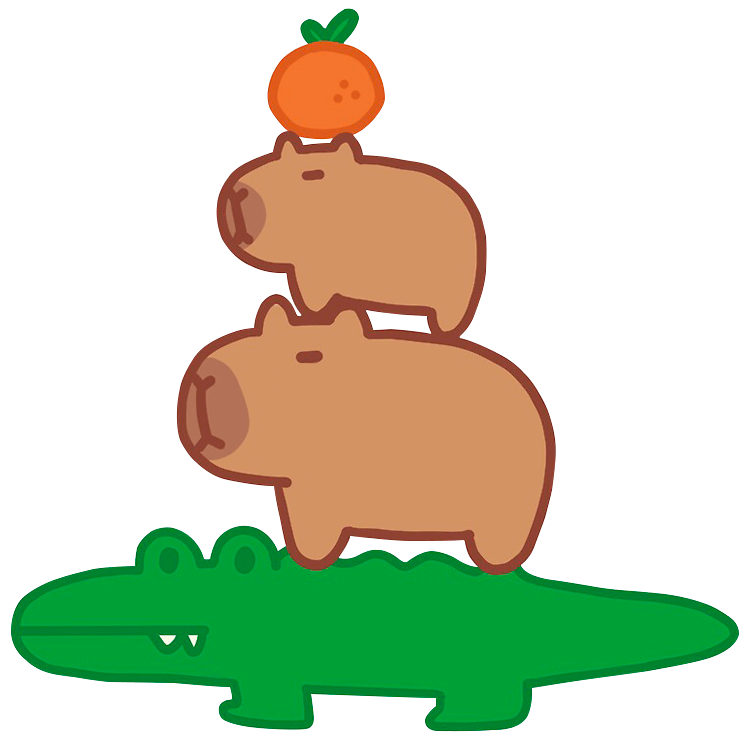
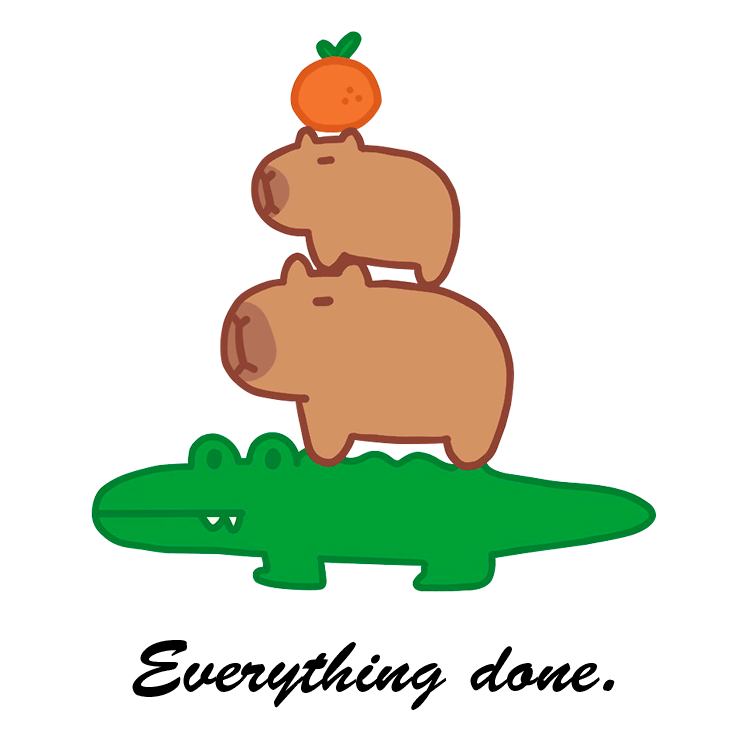
Finished todos sections. Implemented a placeholder image that appears if the todos container is empty.

diff --git a/src/index.html b/src/index.html
@@ -32,61 +32,63 @@
       </div>
     </article>
     <article class="todo-app">
-      <div class="todo-app-intro">
-        <div class="todo-app-intro__info">
-          <p>4th March 2026</p>
-          <p>0 tasks left</p>
-        </div>
-        <div class="todo-app-intro__buttons">
-          <button class="todo-app-intro__add-btn" id="todo-app-intro__add-btn" type="button" aria-label="Add new todo." aria-controls="todo-app-prompt" aria-expanded="false">
-            <svg aria-hidden="true" fill="currentColor" xmlns="http://www.w3.org/2000/svg" viewBox="0 0 448 512"><path d="M256 80c0-17.7-14.3-32-32-32s-32 14.3-32 32V224H48c-17.7 0-32 14.3-32 32s14.3 32 32 32H192V432c0 17.7 14.3 32 32 32s32-14.3 32-32V288H400c17.7 0 32-14.3 32-32s-14.3-32-32-32H256V80z"/></svg>
-          </button>
-          <button class="todo-app-intro__search-btn" id="todo-app-intro__search-btn" aria-label="Seach todo." type="button" aria-controls="search-todo-prompt" aria-expanded="false">
-            <svg aria-hidden="true" fill="currentColor" xmlns="http://www.w3.org/2000/svg" viewBox="0 0 512 512"><path d="M416 208c0 45.9-14.9 88.3-40 122.7L502.6 457.4c12.5 12.5 12.5 32.8 0 45.3s-32.8 12.5-45.3 0L330.7 376c-34.4 25.2-76.8 40-122.7 40C93.1 416 0 322.9 0 208S93.1 0 208 0S416 93.1 416 208zM208 352a144 144 0 1 0 0-288 144 144 0 1 0 0 288z"/></svg>
-          </button>
-          <button class="todo-app-intro__clear-btn" id="todo-app-intro__clear-btn" aria-label="Clear all todos." type="button">
-            <svg aria-hidden="true" fill="currentColor" xmlns="http://www.w3.org/2000/svg" viewBox="0 0 576 512"><path d="M566.6 54.6c12.5-12.5 12.5-32.8 0-45.3s-32.8-12.5-45.3 0l-192 192-34.7-34.7c-4.2-4.2-10-6.6-16-6.6c-12.5 0-22.6 10.1-22.6 22.6v29.1L364.3 320h29.1c12.5 0 22.6-10.1 22.6-22.6c0-6-2.4-11.8-6.6-16l-34.7-34.7 192-192zM341.1 353.4L222.6 234.9c-42.7-3.7-85.2 11.7-115.8 42.3l-8 8C76.5 307.5 64 337.7 64 369.2c0 6.8 7.1 11.2 13.2 8.2l51.1-25.5c5-2.5 9.5 4.1 5.4 7.9L7.3 473.4C2.7 477.6 0 483.6 0 489.9C0 502.1 9.9 512 22.1 512l173.3 0c38.8 0 75.9-15.4 103.4-42.8c30.6-30.6 45.9-73.1 42.3-115.8z"/></svg>
-          </button>
-        </div>
-      </div>
-      <div id="todo-app-prompt" class="todo-app-prompt" role="region" aria-labelledby="todo-app-prompt__submit-btn" hidden>
-        <form id="todo-app-prompt__form">
-          <button aria-label="Close add new todo prompt." type="button" class="todo-app-prompt__cancel-btn" id="todo-app-prompt__cancel-btn">
-            <span aria-hidden="true" class="material-symbols-outlined">cancel</span>
-          </button>
-          <label for="todo-app-prompt__task">
-            Task
-            <span aria-hidden="true">*</span>
-          </label>
-          <input required type="text" name="task" id="todo-app-prompt__task" aria-required="true"/>
-          <label for="todo-app-prompt__date">Date</label>
-          <input required type="date" name="date" id="todo-app-prompt__date" aria-required="true"/>   
-          <label for="todo-app-prompt__desc">Description</label>
-          <textarea required name="description" id="todo-app-prompt__desc" rows="7" aria-required="true"></textarea>
-          <button id="todo-app-prompt__submit-btn" class="todo-app-prompt__submit-btn" type="submit">Add new todo</button>
-        </form>
-      </div>
-      <div class="search-todo-prompt" id="search-todo-prompt" role="region" aria-label="Seach todo." hidden>
-        <form class="search-todo-prompt__form" id="search-todo-prompt__form">
-          <div>
-            <label aria-label="Todo to be searched." for="search-todo-prompt__search-input"></label>
-            <input type="text" name="search-todo-prompt__search-input" id="search-todo-prompt__search-input"/>
+      <div class="todo-app-controls-container">
+        <div class="todo-app-intro">
+          <div class="todo-app-intro__info">
+            <p>4th March 2026</p>
+            <p>0 tasks left</p>
           </div>
-          <button aria-label="Search todo." type="submit">
-            <svg aria-hidden="true" fill="currentColor" xmlns="http://www.w3.org/2000/svg" viewBox="0 0 512 512"><path d="M416 208c0 45.9-14.9 88.3-40 122.7L502.6 457.4c12.5 12.5 12.5 32.8 0 45.3s-32.8 12.5-45.3 0L330.7 376c-34.4 25.2-76.8 40-122.7 40C93.1 416 0 322.9 0 208S93.1 0 208 0S416 93.1 416 208zM208 352a144 144 0 1 0 0-288 144 144 0 1 0 0 288z"/></svg>
+          <div class="todo-app-intro__buttons">
+            <button class="todo-app-intro__add-btn" id="todo-app-intro__add-btn" type="button" aria-label="Add new todo." aria-controls="todo-app-prompt" aria-expanded="false">
+              <svg aria-hidden="true" fill="currentColor" xmlns="http://www.w3.org/2000/svg" viewBox="0 0 448 512"><path d="M256 80c0-17.7-14.3-32-32-32s-32 14.3-32 32V224H48c-17.7 0-32 14.3-32 32s14.3 32 32 32H192V432c0 17.7 14.3 32 32 32s32-14.3 32-32V288H400c17.7 0 32-14.3 32-32s-14.3-32-32-32H256V80z"/></svg>
+            </button>
+            <button class="todo-app-intro__search-btn" id="todo-app-intro__search-btn" aria-label="Seach todo." type="button" aria-controls="search-todo-prompt" aria-expanded="false">
+              <svg aria-hidden="true" fill="currentColor" xmlns="http://www.w3.org/2000/svg" viewBox="0 0 512 512"><path d="M416 208c0 45.9-14.9 88.3-40 122.7L502.6 457.4c12.5 12.5 12.5 32.8 0 45.3s-32.8 12.5-45.3 0L330.7 376c-34.4 25.2-76.8 40-122.7 40C93.1 416 0 322.9 0 208S93.1 0 208 0S416 93.1 416 208zM208 352a144 144 0 1 0 0-288 144 144 0 1 0 0 288z"/></svg>
+            </button>
+            <button class="todo-app-intro__clear-btn" id="todo-app-intro__clear-btn" aria-label="Clear all todos." type="button">
+              <svg aria-hidden="true" fill="currentColor" xmlns="http://www.w3.org/2000/svg" viewBox="0 0 576 512"><path d="M566.6 54.6c12.5-12.5 12.5-32.8 0-45.3s-32.8-12.5-45.3 0l-192 192-34.7-34.7c-4.2-4.2-10-6.6-16-6.6c-12.5 0-22.6 10.1-22.6 22.6v29.1L364.3 320h29.1c12.5 0 22.6-10.1 22.6-22.6c0-6-2.4-11.8-6.6-16l-34.7-34.7 192-192zM341.1 353.4L222.6 234.9c-42.7-3.7-85.2 11.7-115.8 42.3l-8 8C76.5 307.5 64 337.7 64 369.2c0 6.8 7.1 11.2 13.2 8.2l51.1-25.5c5-2.5 9.5 4.1 5.4 7.9L7.3 473.4C2.7 477.6 0 483.6 0 489.9C0 502.1 9.9 512 22.1 512l173.3 0c38.8 0 75.9-15.4 103.4-42.8c30.6-30.6 45.9-73.1 42.3-115.8z"/></svg>
+            </button>
+          </div>
+        </div>
+        <div id="todo-app-prompt" class="todo-app-prompt" role="region" aria-labelledby="todo-app-prompt__submit-btn" hidden>
+          <form id="todo-app-prompt__form">
+            <button aria-label="Close add new todo prompt." type="button" class="todo-app-prompt__cancel-btn" id="todo-app-prompt__cancel-btn">
+              <span aria-hidden="true" class="material-symbols-outlined">cancel</span>
+            </button>
+            <label for="todo-app-prompt__task">
+              Task
+              <span aria-hidden="true">*</span>
+            </label>
+            <input required type="text" name="task" id="todo-app-prompt__task" aria-required="true"/>
+            <label for="todo-app-prompt__date">Date</label>
+            <input required type="date" name="date" id="todo-app-prompt__date" aria-required="true"/>   
+            <label for="todo-app-prompt__desc">Description</label>
+            <textarea required name="description" id="todo-app-prompt__desc" rows="7" aria-required="true"></textarea>
+            <button id="todo-app-prompt__submit-btn" class="todo-app-prompt__submit-btn" type="submit">Add new todo</button>
+          </form>
+        </div>
+        <div class="search-todo-prompt" id="search-todo-prompt" role="region" aria-label="Seach todo." hidden>
+          <form class="search-todo-prompt__form" id="search-todo-prompt__form">
+            <div>
+              <label aria-label="Todo to be searched." for="search-todo-prompt__search-input"></label>
+              <input type="text" name="search-todo-prompt__search-input" id="search-todo-prompt__search-input"/>
+            </div>
+            <button aria-label="Search todo." type="submit">
+              <svg aria-hidden="true" fill="currentColor" xmlns="http://www.w3.org/2000/svg" viewBox="0 0 512 512"><path d="M416 208c0 45.9-14.9 88.3-40 122.7L502.6 457.4c12.5 12.5 12.5 32.8 0 45.3s-32.8 12.5-45.3 0L330.7 376c-34.4 25.2-76.8 40-122.7 40C93.1 416 0 322.9 0 208S93.1 0 208 0S416 93.1 416 208zM208 352a144 144 0 1 0 0-288 144 144 0 1 0 0 288z"/></svg>
+            </button>
+          </form>
+        </div>
+        <div id="todo-sections" class="todo-sections">
+          <button class="todo-sections__all-btn" id="todo-sections__all-btn" type="button">
+            <h2>All</h2>
           </button>
-        </form>
-      </div>
-      <div id="todo-sections" class="todo-sections">
-        <button class="todo-sections__all-btn" id="todo-sections__all-btn" type="button">
-          <h2>All</h2>
-        </button>
-        <button class="todo-sections__tasks-btn" id="todo-sections__tasks-btn" type="button">
-          <h2>Tasks</h2>
-        </button>
-        <button class="todo-sections__completed-btn" id="todo-sections__completed-btn" type="button">
-          <h2>Completed</h2>
-        </button>
+          <button class="todo-sections__tasks-btn" id="todo-sections__tasks-btn" type="button">
+            <h2>Tasks</h2>
+          </button>
+          <button class="todo-sections__completed-btn" id="todo-sections__completed-btn" type="button">
+            <h2>Completed</h2>
+          </button>
+        </div>
       </div>
       <ul id="todos-container" class="todos-container">
       </ul>

diff --git a/src/scripts/main.js b/src/scripts/main.js
@@ -38,7 +38,7 @@ const introPrompts = {
   }
 };
 
-// Todo 23/03/2024: Complete todo app widget.
+// Todo 23/03/2024: Complete todo and quote widget.
 
   /*  Completed - Dialog modularity.
         // editTodo, deleteTodo, limit100, cancelAddTodoPrompt, completeTodo will share the same custom dialog. 
@@ -89,27 +89,34 @@ const introPrompts = {
         // } 
   */
 
-  // Todo Saturday - Make todo section functional.
-    // generate HTML depending on if the task is completed or not.
-    // All => genereateTodosHTML()
-    // Tasks => completed = false; generateTasksHTML()
-    // Completed => completed = true; generateCompletedTasksHTML();
+  /*  Completed - Make todo section functional.
+        // generate HTML depending on if the task is completed or not.
+        // All => genereateTodosHTML()
+        // Tasks => completed = false; generateTasksHTML()
+        // Completed => completed = true; generateCompletedTasksHTML();
 
-    //if todo section is empty generate frog chilling in pool.
-    //remember the section clicked when the page loads.
+        //if todo section is empty generate a cute image.
+        //remember the section clicked when the page loads. 
+  */
 
-  // Todo Saturday - Implement clear all todos and confirmationaL modal.
+  // Todo Wednesday - Implement clear all todos and confirmationaL modal.
+
+  // Todo Wednesday - Refactor initialize elements before generateDialogHTML to become modular.
   
-  // Todo Saturday - Implement search todos.
+  // Todo Friday - Implement search todos.
 
-  // Todo Saturday - Refactor initialize elements before generateDialogHTML to become modular.
+  // Todo Friday - Count all incompleted todos, display current date.
 
-// Todo 23/03/2024: Complete todo app widget.
+  // Todo Saturday - Generate new quote when the new quote button is clicked.
+
+  // Todo Saturady - Share with twitter and tumblr.
+
+// Todo 23/03/2024: Complete todo and quote widget.
 
 async function getQuoteData() {
   const response = await fetch('/.netlify/functions/fetch-data');
   if (response.status !== 200) {
-    throw new Error("Could't fetch the data");
+    throw new Error("Couldn't fetch the data");
   }
   return await response.json();
 }
@@ -304,6 +311,16 @@ function changeActiveSectionBtn(sectionBtnLms, btnToAddId) {
   }); 
 }
 
+function isSectionEmpty() {
+  if (todosContainerLm.innerHTML === '') {
+    todosContainerLm.innerHTML = `
+      <div class="todos-container__img-container">
+        <img class="todos-container__empty-section-image" src="img/cute-animals-drawings/croco-capybara.png" alt="Drawing of a capybara, with an orange on its head, riding another capybara that at the same time is riding a crocodile"/>
+      </div>
+    `;
+  }
+}
+
 export function generateTodosHTML() {
   const tasksBtnLm = document.getElementById('todo-sections__tasks-btn');
   const completedBtnLm = document.getElementById('todo-sections__completed-btn');
@@ -376,7 +393,9 @@ export function generateTodosHTML() {
     .map((todo) => genereateCompletedTaskHTML(todo))
     .join('');
   }
+
   todosContainerLm.innerHTML = generatedHTML;
+  isSectionEmpty();
 }
 
 function completeTodo(targetId) {
@@ -449,6 +468,8 @@ todosSectionsContainerLm.addEventListener('click', (e) => {
     generateTodosHTML();
   }
 });
+
+
 
 
 

diff --git a/src/styles/main.css b/src/styles/main.css
@@ -135,14 +135,20 @@ main {
 /* _TODO APP */
 
 .todo-app {
+  display: grid;
+  grid-template-columns: 1fr;
+  grid-template-rows: 1fr 3fr;
   font-size: 1.35rem;
   max-width: 600px;
   width: 100%;
   border-radius: 3px;
   background-color: #fff;
-  padding: 30px;
-  height: 800px;
-  overflow-y: scroll;
+  padding: 30px 25px;
+  height: 83.75vh;
+  min-height: 620px;
+  overflow-y: auto;
+  scrollbar-width: thin;
+  scrollbar-gutter: stable both-edges;
 }
 
 /* _TODO APP INTRO */
@@ -227,6 +233,22 @@ main {
 .todos-container {
   list-style-type: none;
 }
+
+/* PLACEHOLDER IMAGE */
+
+.todos-container__img-container {
+  display: flex;
+  align-items: center;
+  justify-content: center;
+  height: 100%;
+  padding: 0 0 40px;
+}
+
+.todos-container__empty-section-image {
+  width: 50%;
+}
+
+/* END OF PLACEHOLDER IMAGE*/
 
 .todo {
   color: #fff;
